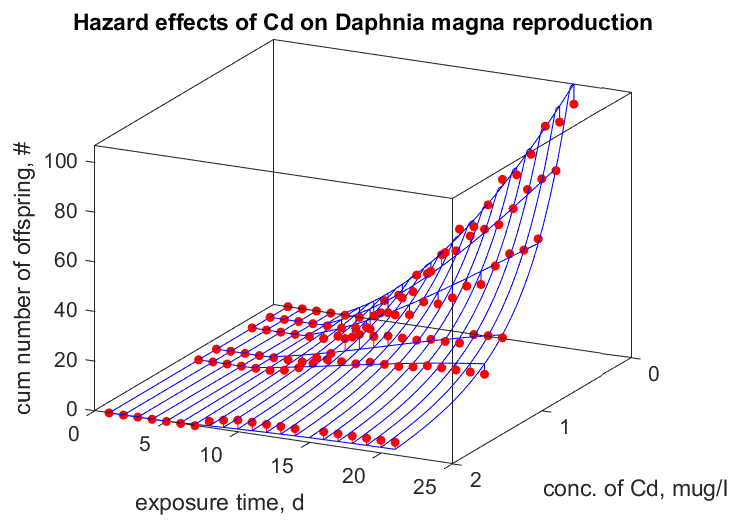
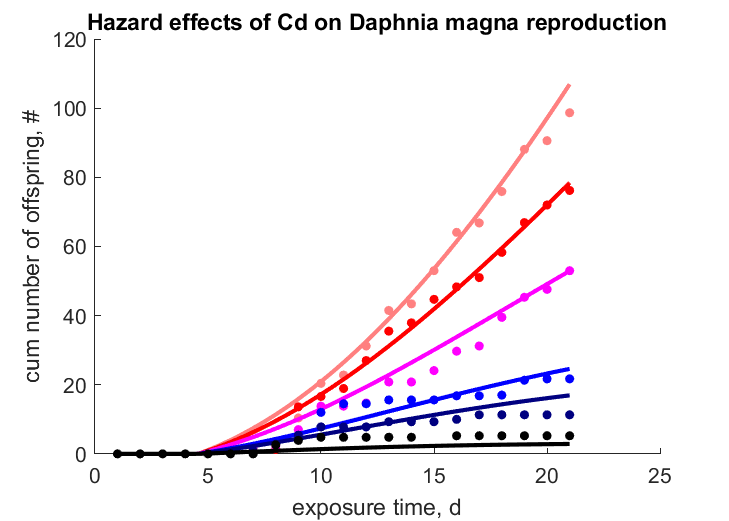
OECD221

diff --git a/OECD221_Cd/OECD221_Cd_res.html b/OECD221_Cd/OECD221_Cd_res.html
@@ -44,7 +44,7 @@
   </div>
 
   <div class="par">
-  <h4>COMPLETE = NaN; MRE =    0.211; SMAE =    0.455; SMSE =    0.201 </h4>
+  <h4>COMPLETE = NaN; MRE =    0.215; SMAE =    0.447; SMSE =    0.171 </h4>
   </div>
 
   <p class="clear"></p>
@@ -53,7 +53,8 @@
   <h2>Data & predictions</h2>
   <TABLE id="prd">
     <TR  class="head"><TH>data</TH> <TH>prd</TH> <TH>RE</TH>  <TH>symbol</TH> <TH>units</TH> <TH>description</TH> </TR>
-    <TR><TD colspan="2">see figure</TD> <TD>0.2114</TD> <TD>tN</TD> <TD colspan="2">exposure time, <font color="blue"><i>vs.</i></font> cum number of offspring</TD>
+    <TR><TD colspan="2">see figure</TD> <TD>0.2147</TD> <TD>tN</TD> <TD colspan="2">exposure time, <font color="blue"><i>vs.</i></font> cum number of offspring</TD>
+    <TR><TD colspan="2">see figure</TD> <TD>0.2147</TD> <TD>tNN</TD> <TD colspan="2">exposure time, <font color="blue"><i>vs.</i></font> cum number of offspring</TD>
   </TABLE>
   </div>
 
@@ -62,8 +63,8 @@
   <TABLE id="par">
     <TR class="head"><TH>symbol</TH> <TH>units</TH> <TH>value</TH>  <TH>free</TH> <TH>description</TH> </TR>
     <TR><TD>c0</TD> <TD>mM</TD> <TD>0.0004995</TD> <TD>1</TD> <TD> No-Effect-Concentration (external, may be zero)</TD></TR>
-    <TR><TD>cA</TD> <TD>mM</TD> <TD>0.005362</TD> <TD>1</TD> <TD>tolerance concentration</TD></TR>
-    <TR><TD>ke</TD> <TD>1/d</TD> <TD>0.001074</TD> <TD>1</TD> <TD>elimination rate at L = Lm</TD></TR>
+    <TR><TD>cA</TD> <TD>mM</TD> <TD>0.00563</TD> <TD>1</TD> <TD>tolerance concentration</TD></TR>
+    <TR><TD>ke</TD> <TD>1/d</TD> <TD>0.001074</TD> <TD>1</TD> <TD>elimination rate at L = L_m</TD></TR>
     <TR><TD>kap</TD> <TD>-</TD> <TD>0.58</TD> <TD>0</TD> <TD>fraction allocated to growth + som maint</TD></TR>
     <TR><TD>kap_R</TD> <TD>-</TD> <TD>0.95</TD> <TD>0</TD> <TD>fraction of reprod flux that is fixed into embryo reserve</TD></TR>
     <TR><TD>g</TD> <TD>-</TD> <TD>4.94</TD> <TD>0</TD> <TD>energy investment ratio</TD></TR>

diff --git a/OECD221_Cd/OECD221_Cd_elas.html b/OECD221_Cd/OECD221_Cd_elas.html
@@ -44,7 +44,7 @@
   </div>
 
   <div class="elas2">
-    <h3>lossfunction sb 0.09917; perturbation factor 1e-06</h3>
+    <h3>lossfunction sb 0.1687; perturbation factor 1e-06</h3>
   </div>
 
   <p class="clear"></p>
@@ -53,9 +53,9 @@
   <h2>Elasticities</h2>
   <TABLE id="elas">
     <TR  class="head"><TH>par</TH> <TH>elasticity</TH></TR>
-    <TR><TH class="head">c0</TH> <TD>-0.09371</TD></TR>
-    <TR><TH class="head">cA</TH> <TD>-3.473</TD></TR>
-    <TR><TH class="head">ke</TH> <TD>1.588</TD></TR>
+    <TR><TH class="head">c0</TH> <TD>-0.04861</TD></TR>
+    <TR><TH class="head">cA</TH> <TD>-3.099</TD></TR>
+    <TR><TH class="head">ke</TH> <TD>1.657</TD></TR>
   </TABLE>
   </div>
 
@@ -63,9 +63,9 @@
   <h2>Second order elasticities</h2>
   <TABLE id="elas2">
     <TR class="head"><TH>par</TH> <TH>c0</TH> <TH>cA</TH> <TH>ke</TH> </TR>
-    <TR><TH class="head">c0</TH> <TD class="diag">0.00594</TD> <TD>1.099</TD> <TD>-0.6211</TD> </TR>
-    <TR><TH class="head">cA</TH> <TD>1.099</TD> <TD class="diag">16.37</TD> <TD>-2.686</TD> </TR>
-    <TR><TH class="head">ke</TH> <TD>-0.6211</TD> <TD>-2.686</TD> <TD class="diag">1.901e+06</TD> </TR>
+    <TR><TH class="head">c0</TH> <TD class="diag">0.06023</TD> <TD>1.231</TD> <TD>-0.7915</TD> </TR>
+    <TR><TH class="head">cA</TH> <TD>1.231</TD> <TD class="diag">21.1</TD> <TD>-5.582</TD> </TR>
+    <TR><TH class="head">ke</TH> <TD>-0.7915</TD> <TD>-5.582</TD> <TD class="diag">1.422e+06</TD> </TR>
   </TABLE>
   </div>
 

diff --git a/OECD221_Cd/OECD221_Cd_report.html b/OECD221_Cd/OECD221_Cd_report.html
@@ -62,6 +62,8 @@
 
   <div class="right">
     <img src=results_OECD221_Cd_01.png width="500px">
+    <img src=results_OECD221_Cd_01_legend.png width="200px">
+    <img src=results_OECD221_Cd_02.png width="500px">
   </div>
 
   <p class="clear"></p>

diff --git a/OECD221_Cd/mydata_OECD221_Cd.m b/OECD221_Cd/mydata_OECD221_Cd.m
@@ -43,13 +43,22 @@ N = [ 0.000   0.000   0.000   0.000   0.000   0.000 % cumulative offspring per f
      98.700  76.200  53.000  21.700  11.300   5.244];
 data.tN = [t, N]; % compose data set
 units.tN = {'d', '#'}; label.tN = {'exposure time', 'cum number of offspring'};  
-treat.tN = {1, c}; units.treat.tN = 'mug/l'; label.treat.tN = 'conc. of Cd';
+treat.tN = {0, c}; units.treat.tN = 'mug/l'; label.treat.tN = 'conc. of Cd';
 % notice the first element of treat.tN is 1 - you have three choices 0, 1
 % or 2, each will result in a different way the data is plotted.
 temp.tN = 20; units.temp.tN = 'C'; label.temp.tN = 'temperature';
 bibkey.tN = {'KooyBeda1996b','KooyBeda1996'};
 title.tN = 'Hazard effects of Cd on Daphnia magna reproduction';
-  
+ 
+% the same again to illustrate a different way of presenting the results 
+data.tNN = data.tN; label.tNN = label.tN; 
+units.treat.tNN = units.treat.tN; label.treat.tNN = label.treat.tN;
+units.tNN = units.tN;
+treat.tNN = treat.tN; treat.tNN{1} = 1;
+temp.tNN = 20; units.temp.tNN = 'C'; label.temp.tNN = 'temperature';
+title.tNN = title.tN;
+bibkey.tNN = bibkey.tN;
+
 %% set weights for all real data
 weights = setweights(data, []);
 

diff --git a/OECD221_Cd/predict_OECD221_Cd.m b/OECD221_Cd/predict_OECD221_Cd.m
@@ -29,8 +29,22 @@ function [prdData, info] = predict_OECD221_Cd(par, data, auxData)
   [t, X] = ode23(@dharep, [0;tN(:,1)], X0, [], C, nc, c0, cA, ke, kap, kap_R, g, k_J, k_M, v, U_Hp, U_0, f); % integrate changes in state
   X(1,:) = []; EN = X(:, 1:nc); % remove first line, select offspring only
   
+  C = treat.tNN{2}(:); nc = length(C);
+  
+  % initialize state vector; catenate to avoid loops
+  X0 = [zeros(nc,1);     % N: cumulative number of offspring (#)
+        H0 * ones(nc,1); % H: scaled maturity H = M_H/ {J_EAm} (d.cm^2)
+        L0 * ones(nc,1); % L: body length (cm)
+        U0 * ones(nc,1); % U: scaled reserve U = M_E/ {J_EAm} (d.cm^2)
+        zeros(nc,1)];    % c: scaled internal concentration (mug/l)
+
+  % get trajectories
+  [t, X] = ode23(@dharep, [0;tN(:,1)], X0, [], C, nc, c0, cA, ke, kap, kap_R, g, k_J, k_M, v, U_Hp, U_0, f); % integrate changes in state
+  X(1,:) = []; ENN = X(:, 1:nc); % remove first line, select offspring only
+
   % pack to output
   prdData.tN = EN;
+  prdData.tNN = ENN;
   
 end
 

diff --git a/OECD221_Cd/run_OECD221_Cd.m b/OECD221_Cd/run_OECD221_Cd.m
@@ -14,4 +14,4 @@ estim_options('results_output', 3);
 estim_pars; 
 prt_elas([],1)
 
-prt_report_AmPtox
+prt_report_AmPtox 
